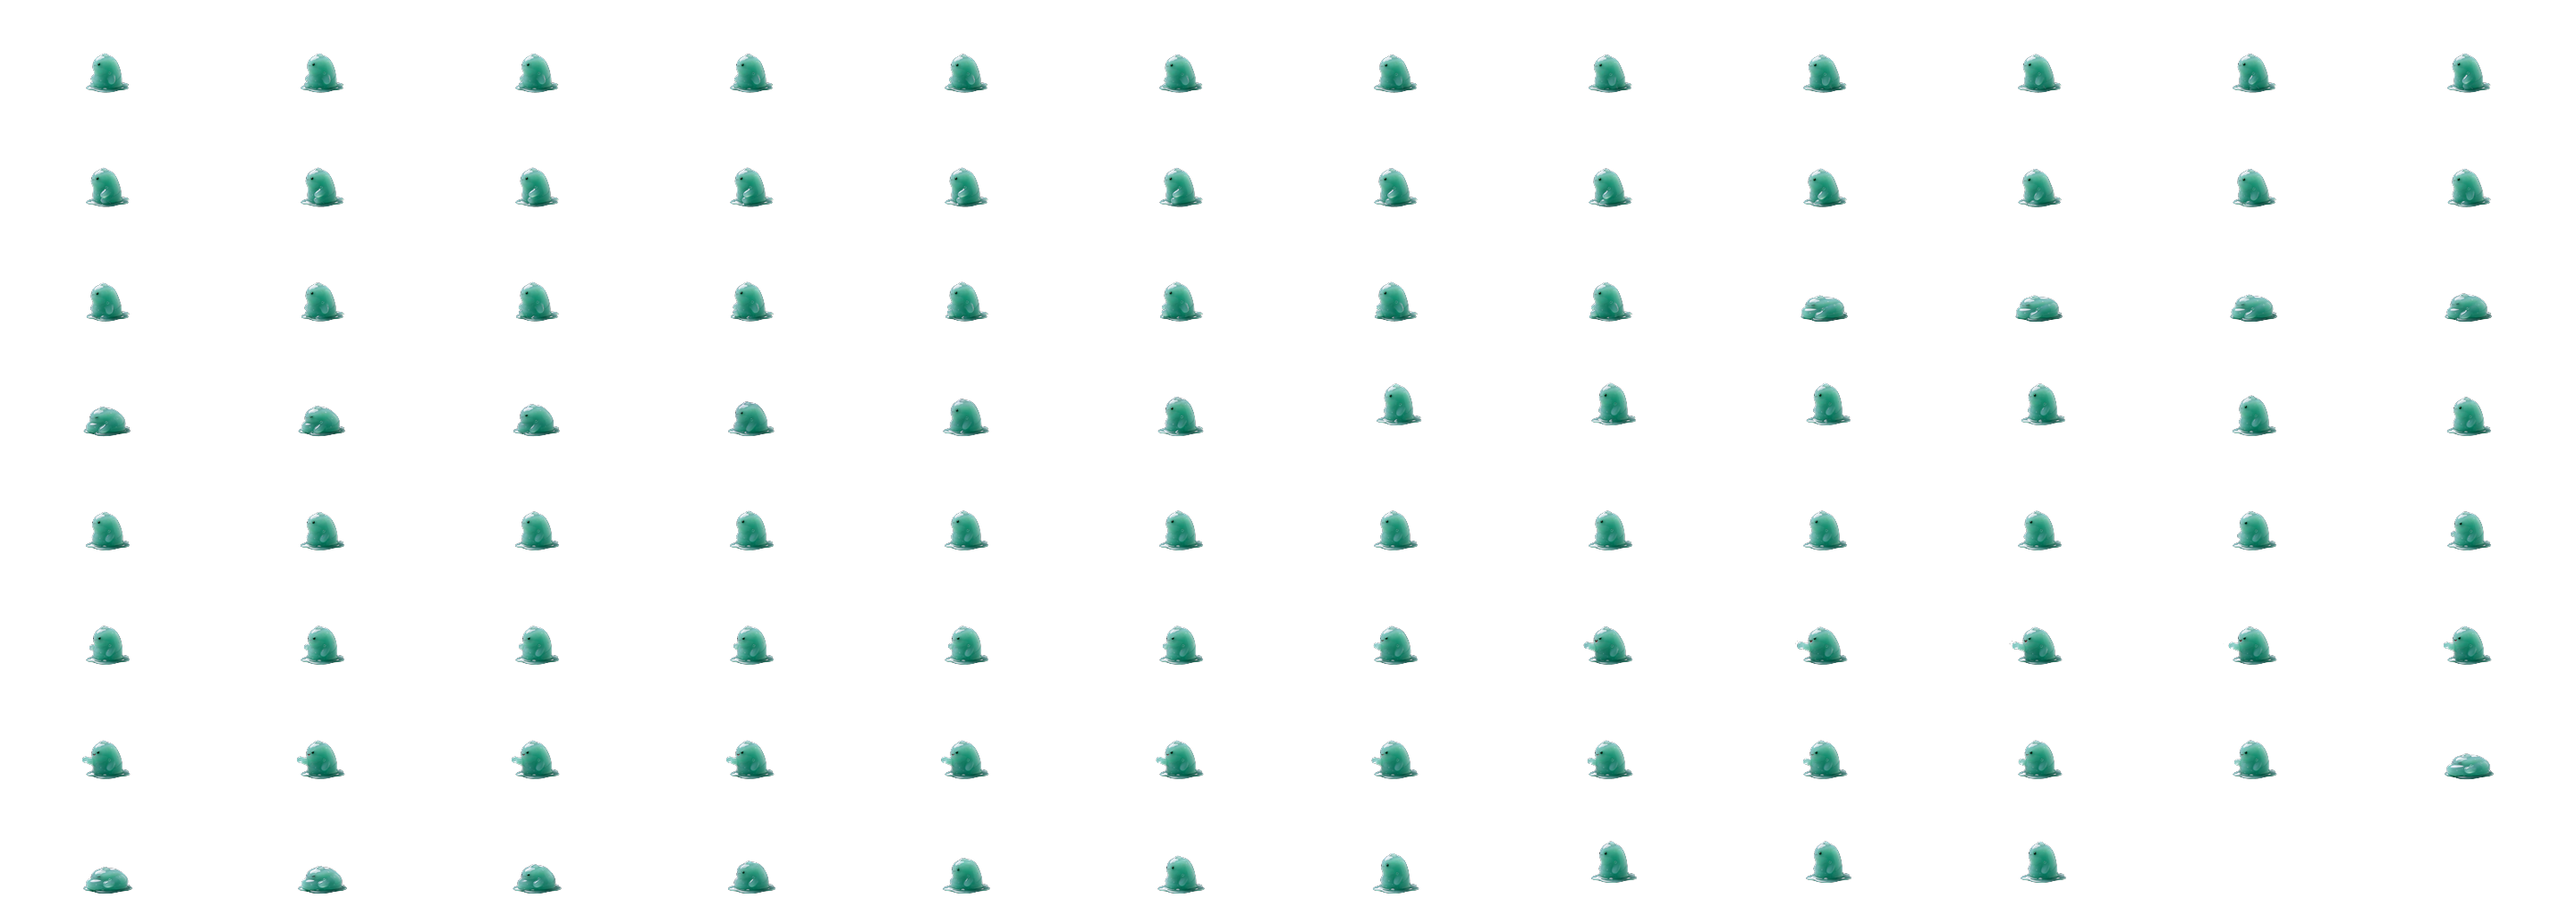
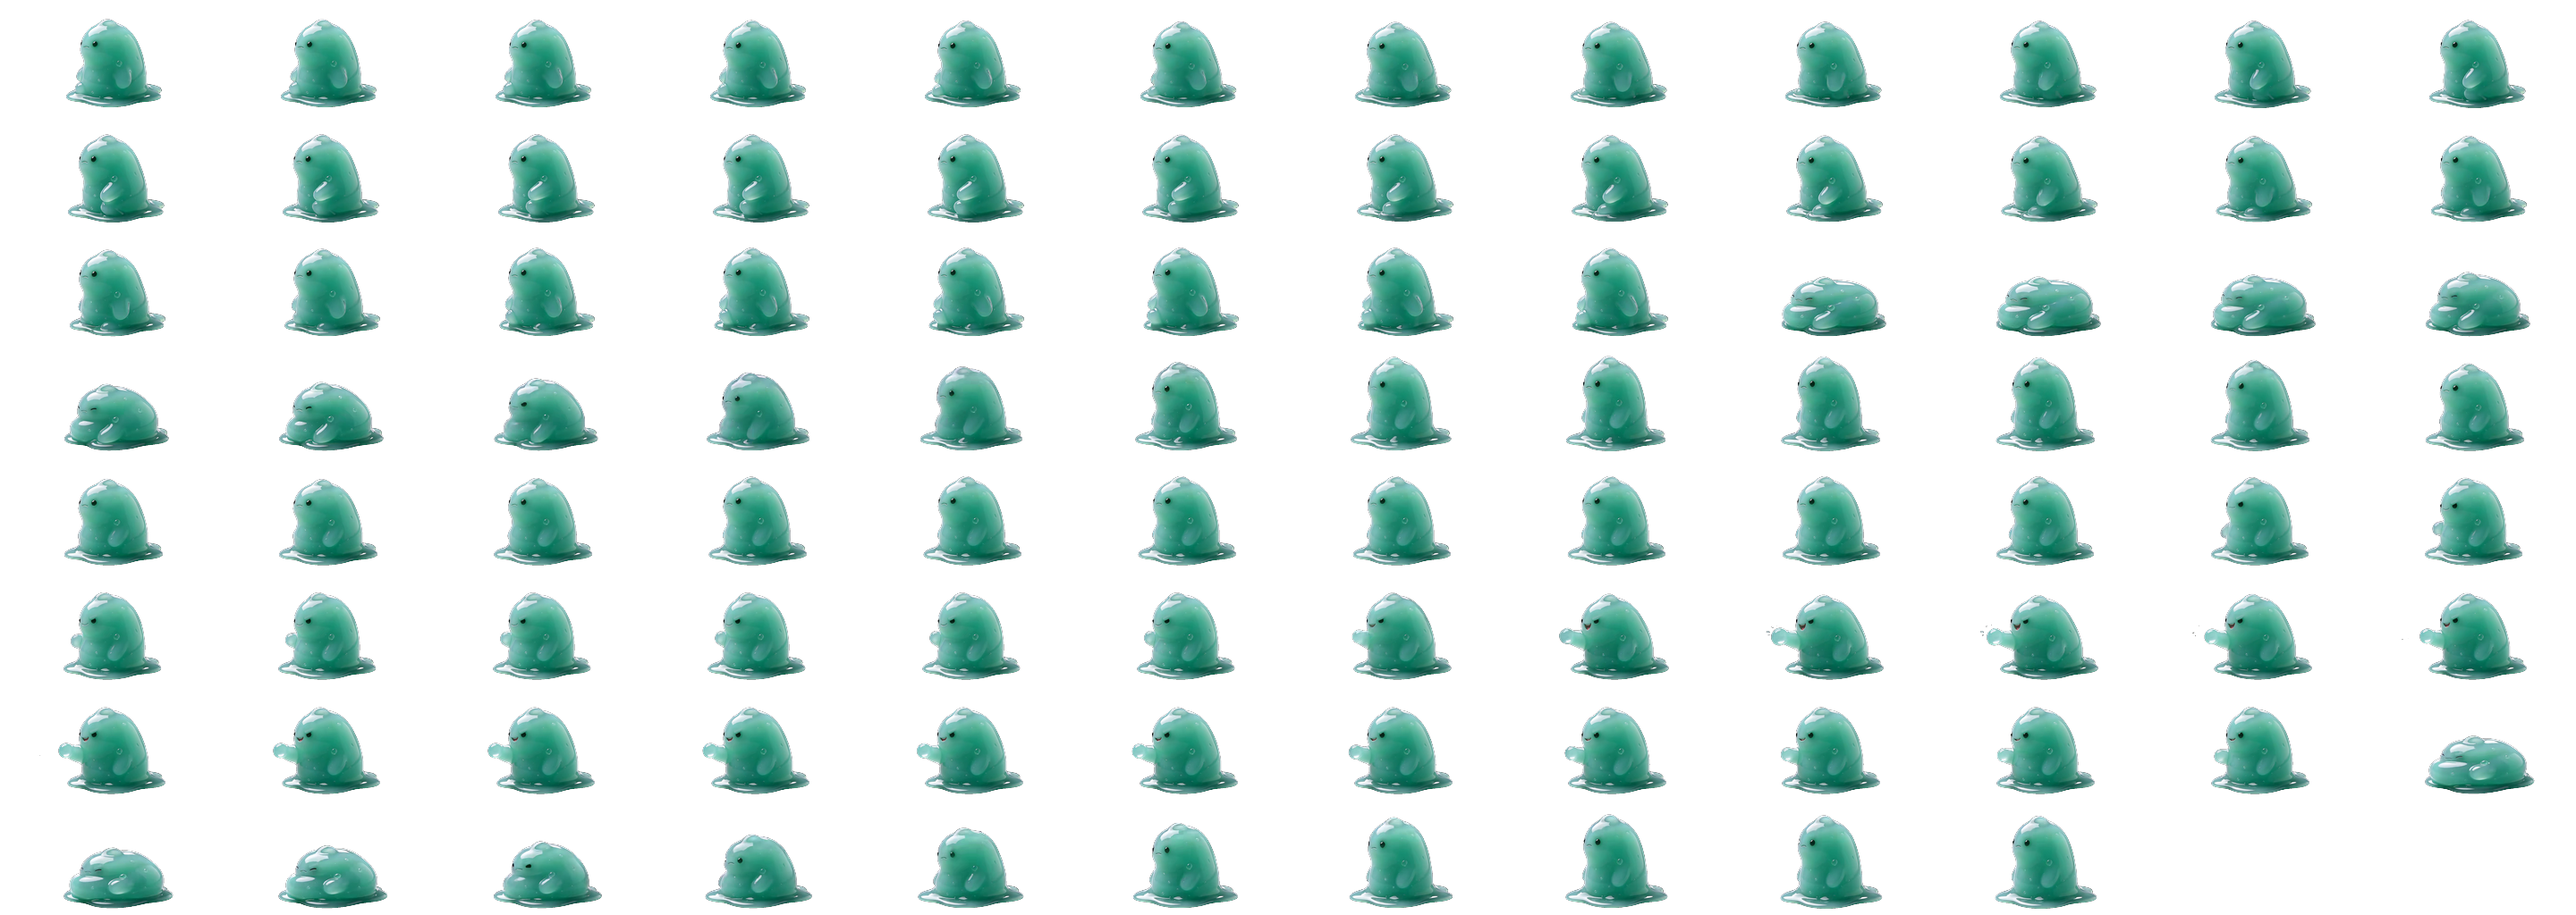
修复史莱姆: 重新生成sprite(裁剪空白+头部x对齐+脚底y对齐), 尺寸调到72px(玩家肩膀高度), 脚底踩在地板上

diff --git a/index.html b/index.html
@@ -1066,17 +1066,19 @@
         const row = Math.floor(frameIdx / SLIME_SPRITE.cols);
         const srcX = col * SLIME_SPRITE.fw;
         const srcY = row * SLIME_SPRITE.fh;
-        /* 渲染尺寸: 比玩家小一点 */
-        const drawH = Math.min(CH * 0.4, 60);
+        /* 渲染尺寸: 到玩家肩膀高度 */
+        const drawH = Math.min(CH * 0.5, 72);
         const drawW = drawH * (SLIME_SPRITE.fw / SLIME_SPRITE.fh);
+        /* 脚底在帧中的y=120(距底部8px), 用这个偏移让脚底踩在地板上 */
+        const footOffset = 120 * (drawH / SLIME_SPRITE.fh);
         ctx.save();
         ctx.translate(sx, sy);
         if (e.dying > 0) ctx.globalAlpha = e.dying/0.4;
         if (e.hurtT > 0) { ctx.globalAlpha *= 0.7; ctx.filter = 'brightness(1.8)'; }
         /* 史莱姆面朝左, 素材本身就是面朝左, 不需要翻转 */
-        ctx.drawImage(G.slimeSprite, srcX, srcY, SLIME_SPRITE.fw, SLIME_SPRITE.fh, -drawW*0.5, -drawH, drawW, drawH);
+        ctx.drawImage(G.slimeSprite, srcX, srcY, SLIME_SPRITE.fw, SLIME_SPRITE.fh, -drawW*0.5, -footOffset, drawW, drawH);
         ctx.restore();
-        if (e.alive) drawHpBar(sx, sy - drawH - 6, 28, e.hp, e.maxHp);
+        if (e.alive) drawHpBar(sx, sy - footOffset - 4, 28, e.hp, e.maxHp);
       } else {
         /* 其他怪物类型暂用占位 */
         ctx.save(); ctx.translate(sx, sy);
